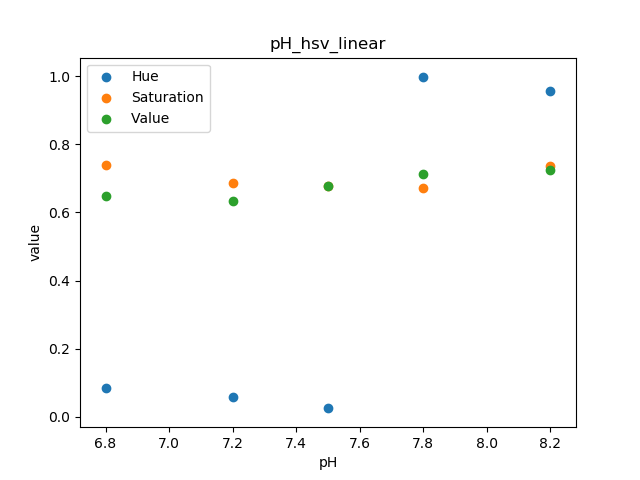
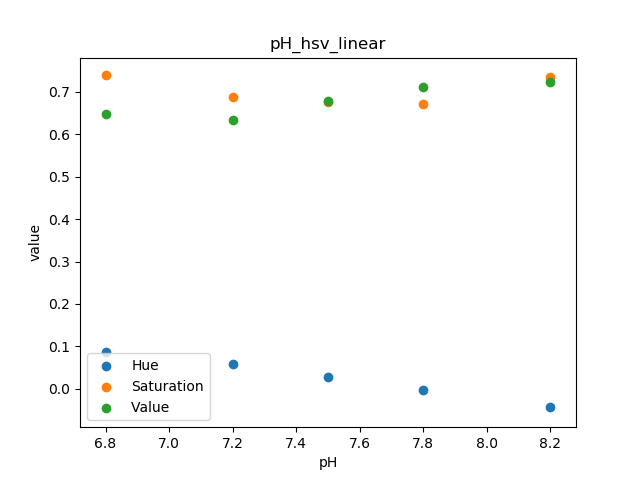
Running unit tests with rgb. Failing 2.

diff --git a/sensing.py b/sensing.py
@@ -17,6 +17,7 @@ from mpl_toolkits.mplot3d import Axes3D
 import numpy as np
 from os import path
 import numpy.linalg as linalg
+import colorsys
 
 import init
 from helpers import get_distance_between_points_3d, running_on_rpi
@@ -30,6 +31,76 @@ else:
     import pygame
     import pygame.camera
 
+
+def interpolate_chemical_property_from_img_hue(chemical, img):
+	r,g,b = get_average_rgb_from_img(img)
+	
+	scale = get_scale_map(chemical)
+
+	# convert r,g,b to h,s,v 
+	h,s,v = colorsys.rgb_to_hsv(r,g,b)
+
+	if h > 0.5:
+		h -= 1
+
+	# get the distance from each point in the scale (converted to a hue)
+	sorted_keys = sorted(scale.keys())
+	distances = []
+	hues = []
+
+	for key in sorted_keys:
+		rgb = scale[key]
+		hue,sat,val = colorsys.rgb_to_hsv(*(rgb))
+
+		if hue > 0.5:
+			hue -= 1
+
+		dist = abs(h - hue)
+		distances.append(dist)
+		hues.append(hue)
+
+	closest_index = distances.index(min(distances))
+
+	# interpolate 
+	# if we are the lowest index in the example scale, figure out if it is less than lowest
+	# or inbetween lowest and second lowest 
+	if (0 == closest_index):
+
+		if (distances[0] < distances[1]):
+			# we are less than minimum
+			print("[WARNING]: Value outside of scale range.")
+
+		low_index = 0
+		high_index = 1
+	elif (len(sorted_keys) - 1 == closest_index):
+		low_index = len(sorted_keys) - 2
+		high_index = closest_index
+	else:
+		# check high and low 
+		low_distance = distances[closest_index - 1]
+		high_distance = distances[closest_index + 1]
+		if (low_distance < high_distance):
+			low_index = closest_index - 1
+			high_index = closest_index
+		else:
+			low_index = closest_index
+			high_index = closest_index + 1
+
+	# interpolate the new value 
+	high_hue,_,_ = colorsys.rgb_to_hsv(*(scale[sorted_keys[high_index]]))
+	low_hue,_,_ = colorsys.rgb_to_hsv(*(scale[sorted_keys[low_index]]))
+
+	h_distance = high_hue - h
+	low_distance = high_hue - low_hue
+
+	ratio = h_distance / low_distance
+
+	# get the difference between high and low chemical property 
+	range_difference = float(sorted_keys[high_index]) - float(sorted_keys[low_index])
+
+	interpolated_value = float(sorted_keys[high_index]) - range_difference * ratio
+
+	return interpolated_value
 
 def interpolate_chemical_property_from_img_rgb(chemical, img):
 	r,g,b = get_average_rgb_from_img(img)

diff --git a/tests.py b/tests.py
@@ -10,10 +10,10 @@ import unittest
 
 import init 
 from sensing_playground import interpolate_rgb_values
-from sensing import get_img, interpolate_chemical_property_from_img_rgb, visualize, get_average_rgb_from_img, get_scale_map
+from sensing import get_img, interpolate_chemical_property_from_img_rgb, visualize, get_average_rgb_from_img, get_scale_map, interpolate_chemical_property_from_img_hue
 
-test_accuracy = 0.2
-visualize_fails = False
+test_accuracy = 0.3
+visualize_fails = True
 
 class TestTesting(unittest.TestCase):
 
@@ -63,9 +63,9 @@ class TestSensingPh(unittest.TestCase):
 		file_name = 'unit/7,0.png'
 		self.assertLess(self.run_test(test_value, file_name), test_accuracy)
 
-	def test_7_1(self):
-		test_value = 7.1
-		file_name = 'unit/7,1.png'
+	def test_7_2(self):
+		test_value = 7.2
+		file_name = 'unit/7,2.png'
 		self.assertLess(self.run_test(test_value, file_name), test_accuracy)
 
 	def test_7_5(self):
@@ -96,6 +96,11 @@ class TestSensingPh(unittest.TestCase):
 	def test_8_2(self):
 		test_value = 8.2
 		file_name = 'unit/8,2.png'
+		self.assertLess(self.run_test(test_value, file_name), test_accuracy)
+
+	def test_7_6(self):
+		test_value = 7.6
+		file_name = 'unit/7,6.png'
 		self.assertLess(self.run_test(test_value, file_name), test_accuracy)
 
 if __name__ == '__main__':

diff --git a/sensing_playground.py b/sensing_playground.py
@@ -133,6 +133,9 @@ def create_scale_hue_graph(chemical):
         values.append(float(key))
 
         h,s,v = colorsys.rgb_to_hsv(*(scale[key]))
+        if h > 0.5:
+            h -= 1
+            
         hues.append(h)
         sat.append(s)
         val.append(v)

diff --git a/helpers.py b/helpers.py
@@ -56,6 +56,8 @@ def running_on_rpi():
 
 		for line in lines:
 			if line.__contains__("Raspberry"):
+				info_file.close()
 				return True
 
+	info_file.close()
 	return False
